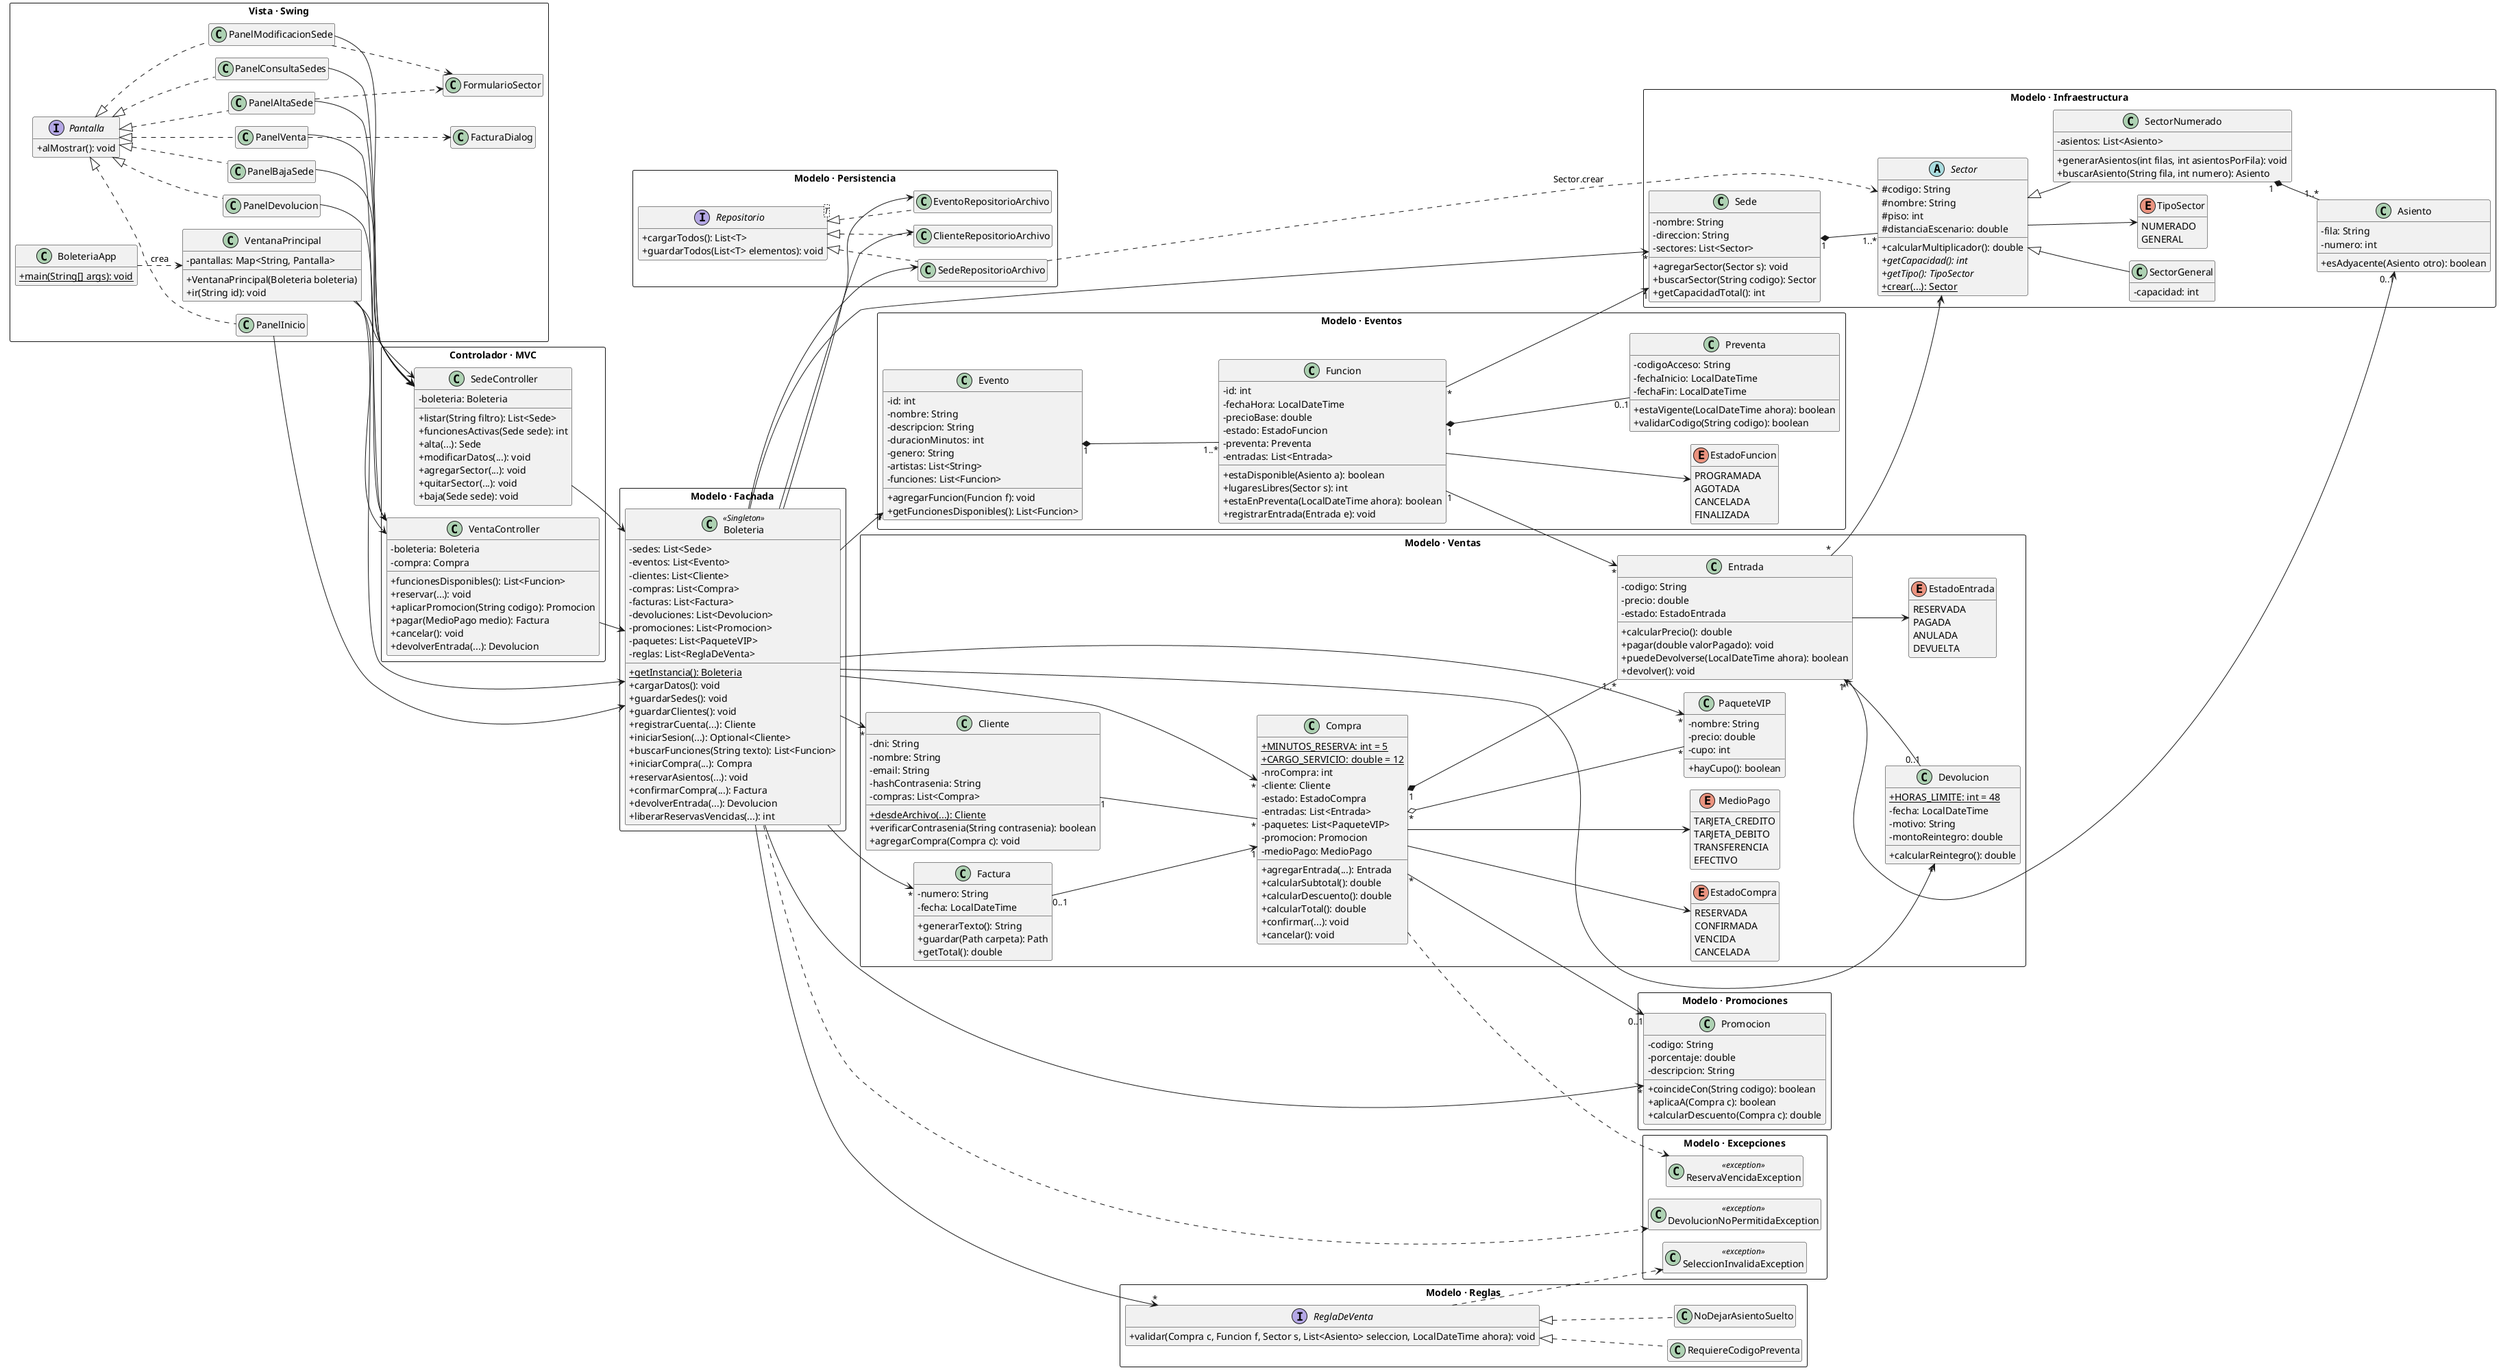
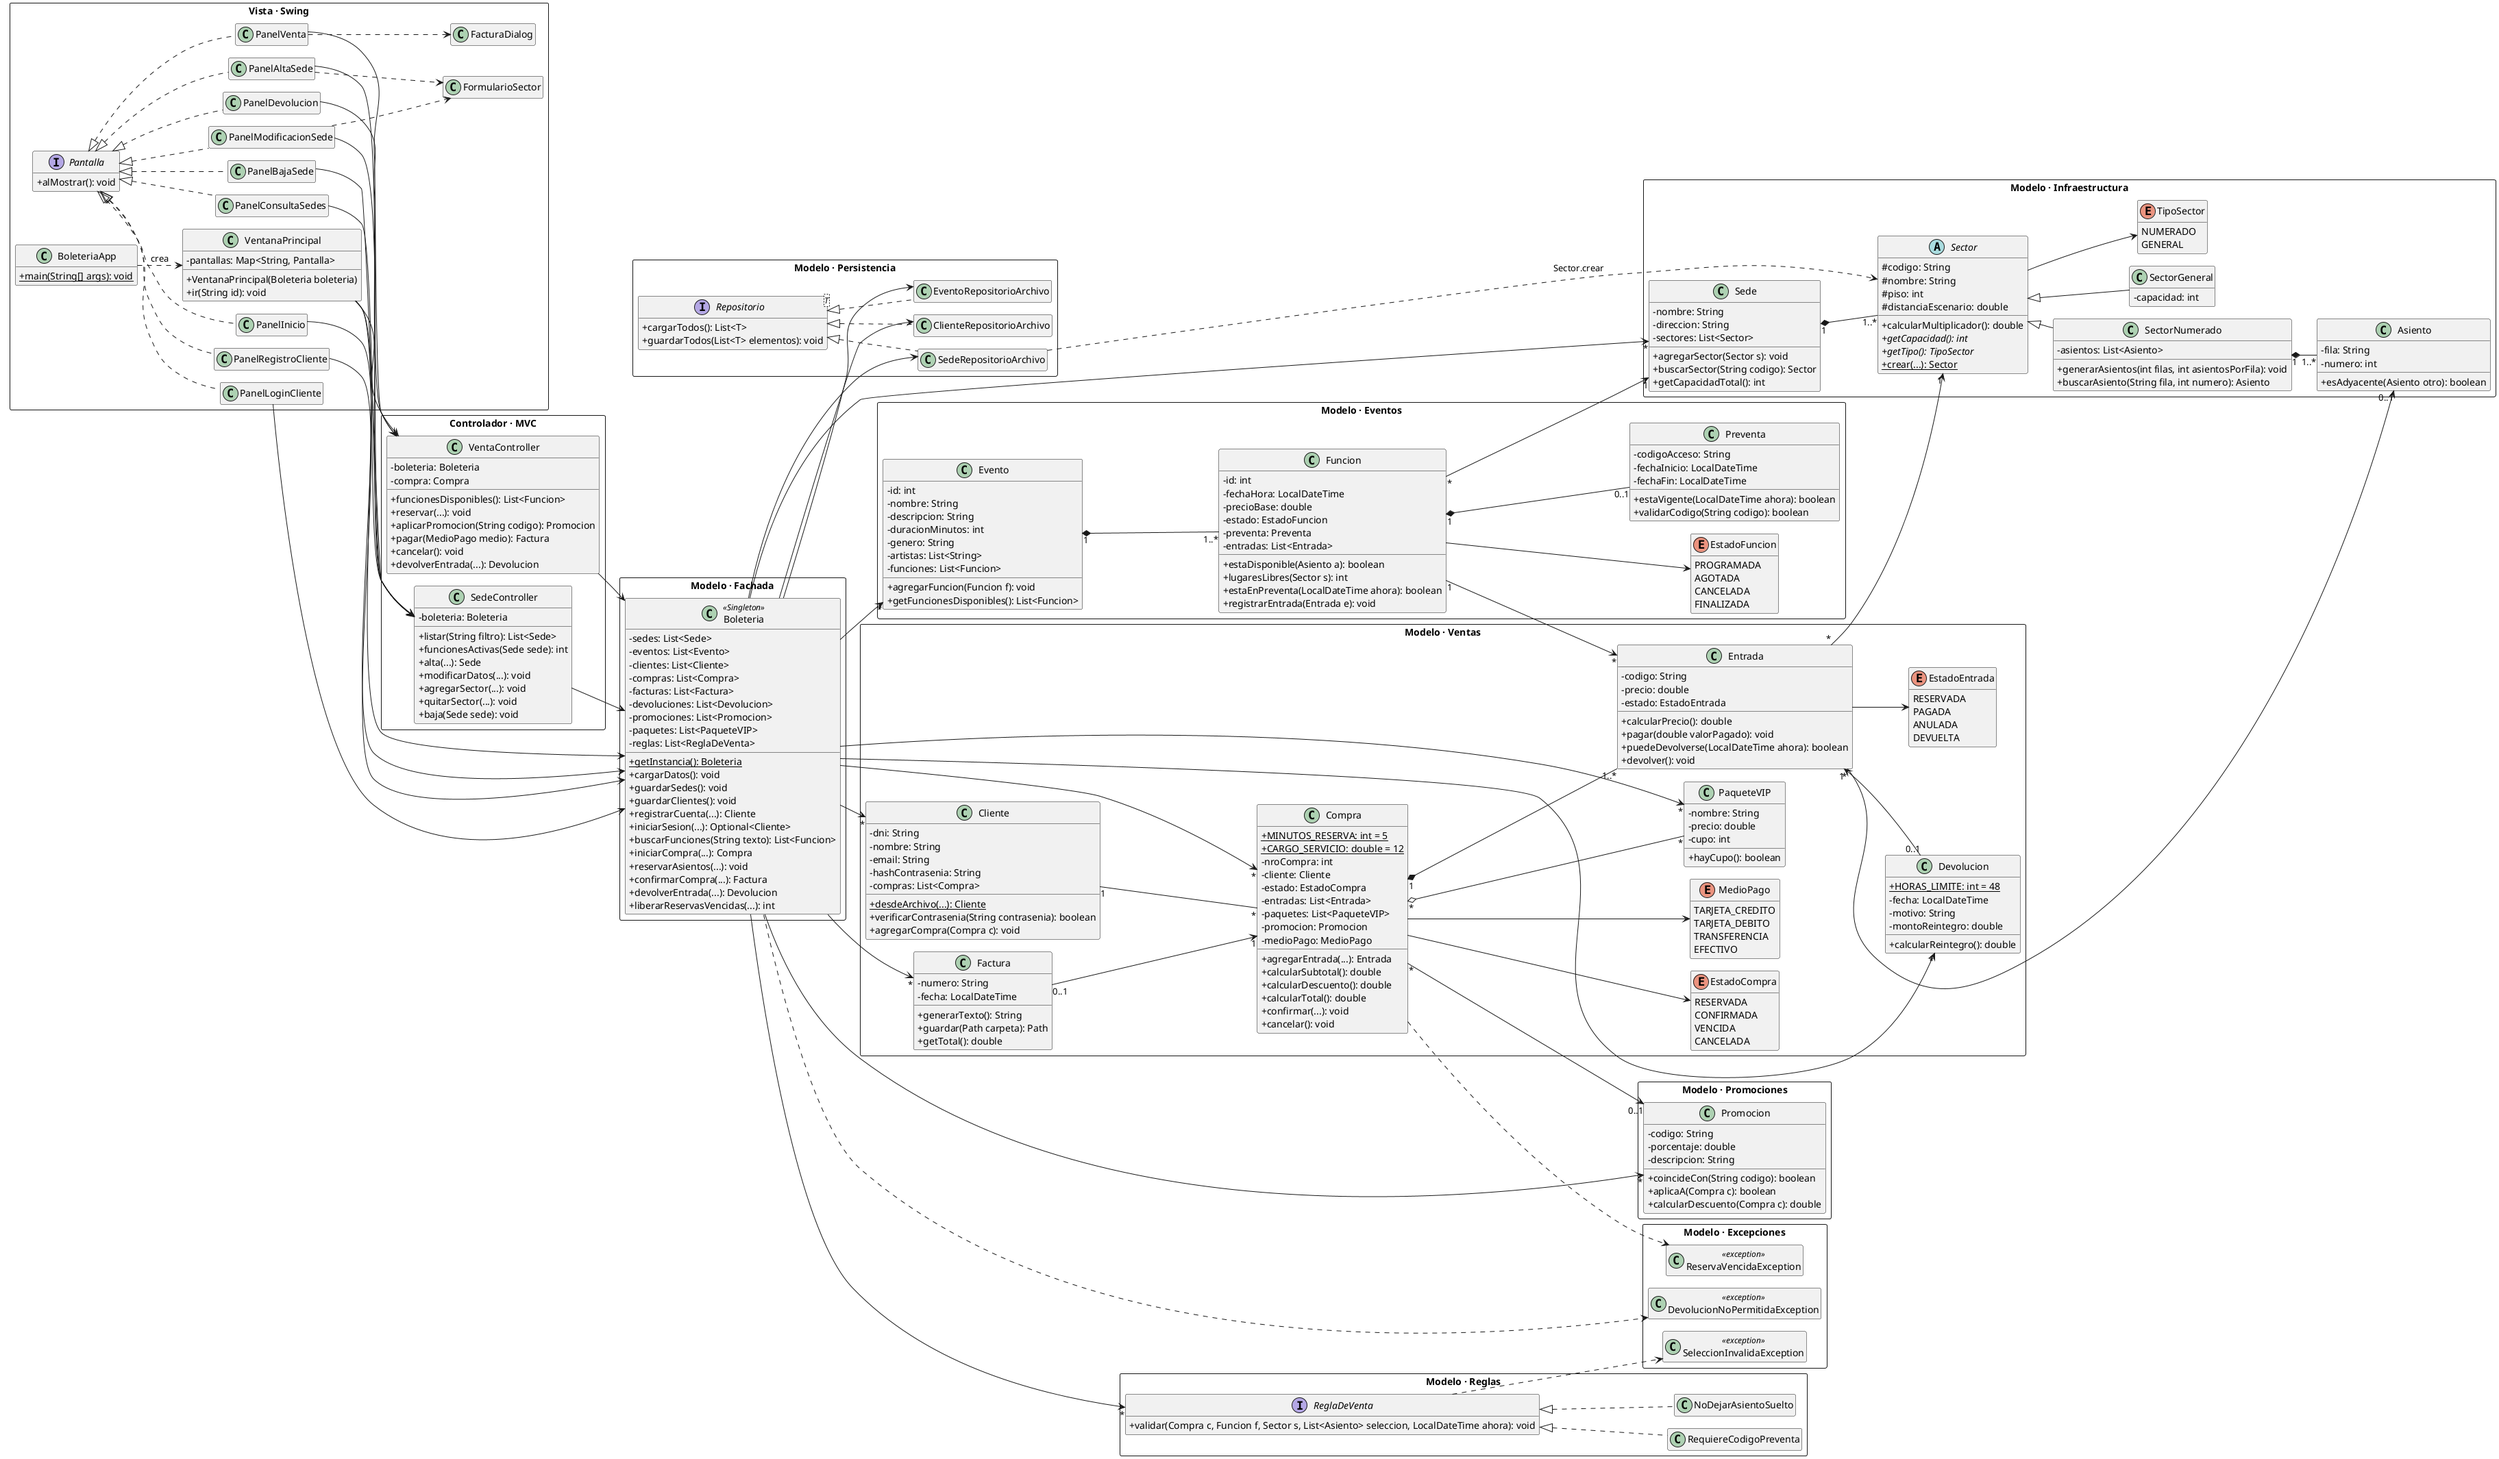
Alinear UML y docs tras verificación E2E final.
- diagrama_clases_entrega2: PanelLoginCliente y PanelRegistroCliente
- mvc.puml actualizado; PNG regenerado
- ESTADO_FINAL y CHECKLIST con resultado de demo

diff --git a/entregas/entrega-2/ESTADO_FINAL.md b/entregas/entrega-2/ESTADO_FINAL.md
@@ -1,4 +1,4 @@
-# Entrega parcial 2 — Estado final (01/11/2026)
+# Entrega parcial 2 — Estado final (01/11/2026, verificación 18:16 ART)
 
 ## Veredicto
 
@@ -68,9 +68,21 @@ Contraseña de clientes de ejemplo (seed): ver `DatosIniciales.CONTRASENIA_DEMO`
 
 ---
 
+## Verificación automática (01/11/2026 18:16 ART)
+
+| Prueba | Resultado |
+|---|---|
+| `mvn -B clean compile` (desde `boleteria/`) | OK · 51 fuentes |
+| `mvn -B exec:exec@demo-flujo-compra` | OK · exit 0 · termina en «Fin de la demo.» |
+| Persistencia `datos/*.txt` tras demo | OK · `sedes`, `sectores`, `clientes`, `eventos`, `funciones`, `factura_seq.txt` legibles |
+| Comprobante en disco | OK · p. ej. `datos/facturas/FAC-0001-00000010.txt` (demo §4) |
+| Diagrama vs código | OK · `diagrama_clases_entrega2.puml` incluye login/registro UI; PNG regenerado |
+
+---
+
 ## Cambios cerrados en esta revisión
 
 - `PanelLoginCliente` y menú **Clientes → Iniciar sesión**.
 - Sesión de cliente en `Boleteria`; `PanelVenta` usa el cliente logueado y bloquea reservar sin sesión.
 - Secuencia de facturas en `datos/factura_seq.txt` (fallback desde archivos `FAC-*.txt`).
-- Diagrama `.puml`: `EventoRepositorioArchivo` agregado.
+- Diagrama `.puml`: `EventoRepositorioArchivo` agregado; `PanelRegistroCliente` y `PanelLoginCliente` (PNG regenerado 01/11/2026 18:16).

diff --git a/entregas/entrega-2/CHECKLIST_ENTREGA.md b/entregas/entrega-2/CHECKLIST_ENTREGA.md
@@ -79,7 +79,7 @@ Documentación extendida (~10 páginas): [`entregas/entrega-final/`](../../entre
 
 ---
 
-## Escenarios cubiertos por `DemoFlujoCompra` (última corrida OK)
+## Escenarios cubiertos por `DemoFlujoCompra` (última corrida OK — 01/11/2026 18:16 ART, exit 0)
 
 1. Registro, email duplicado, login fallido / exitoso  
 2. Búsqueda de funciones y disponibilidad  
@@ -88,3 +88,5 @@ Documentación extendida (~10 páginas): [`entregas/entrega-final/`](../../entre
 5. Reserva vencida a los 6 minutos  
 6. Preventa sin código / con `ORBITA26` + `BANCO20`  
 7. Devolución permitida y rechazada (&lt; 48 hs a la función)
+
+**Salida esperada:** la consola debe cerrar con la línea `Fin de la demo.` (BUILD SUCCESS).
